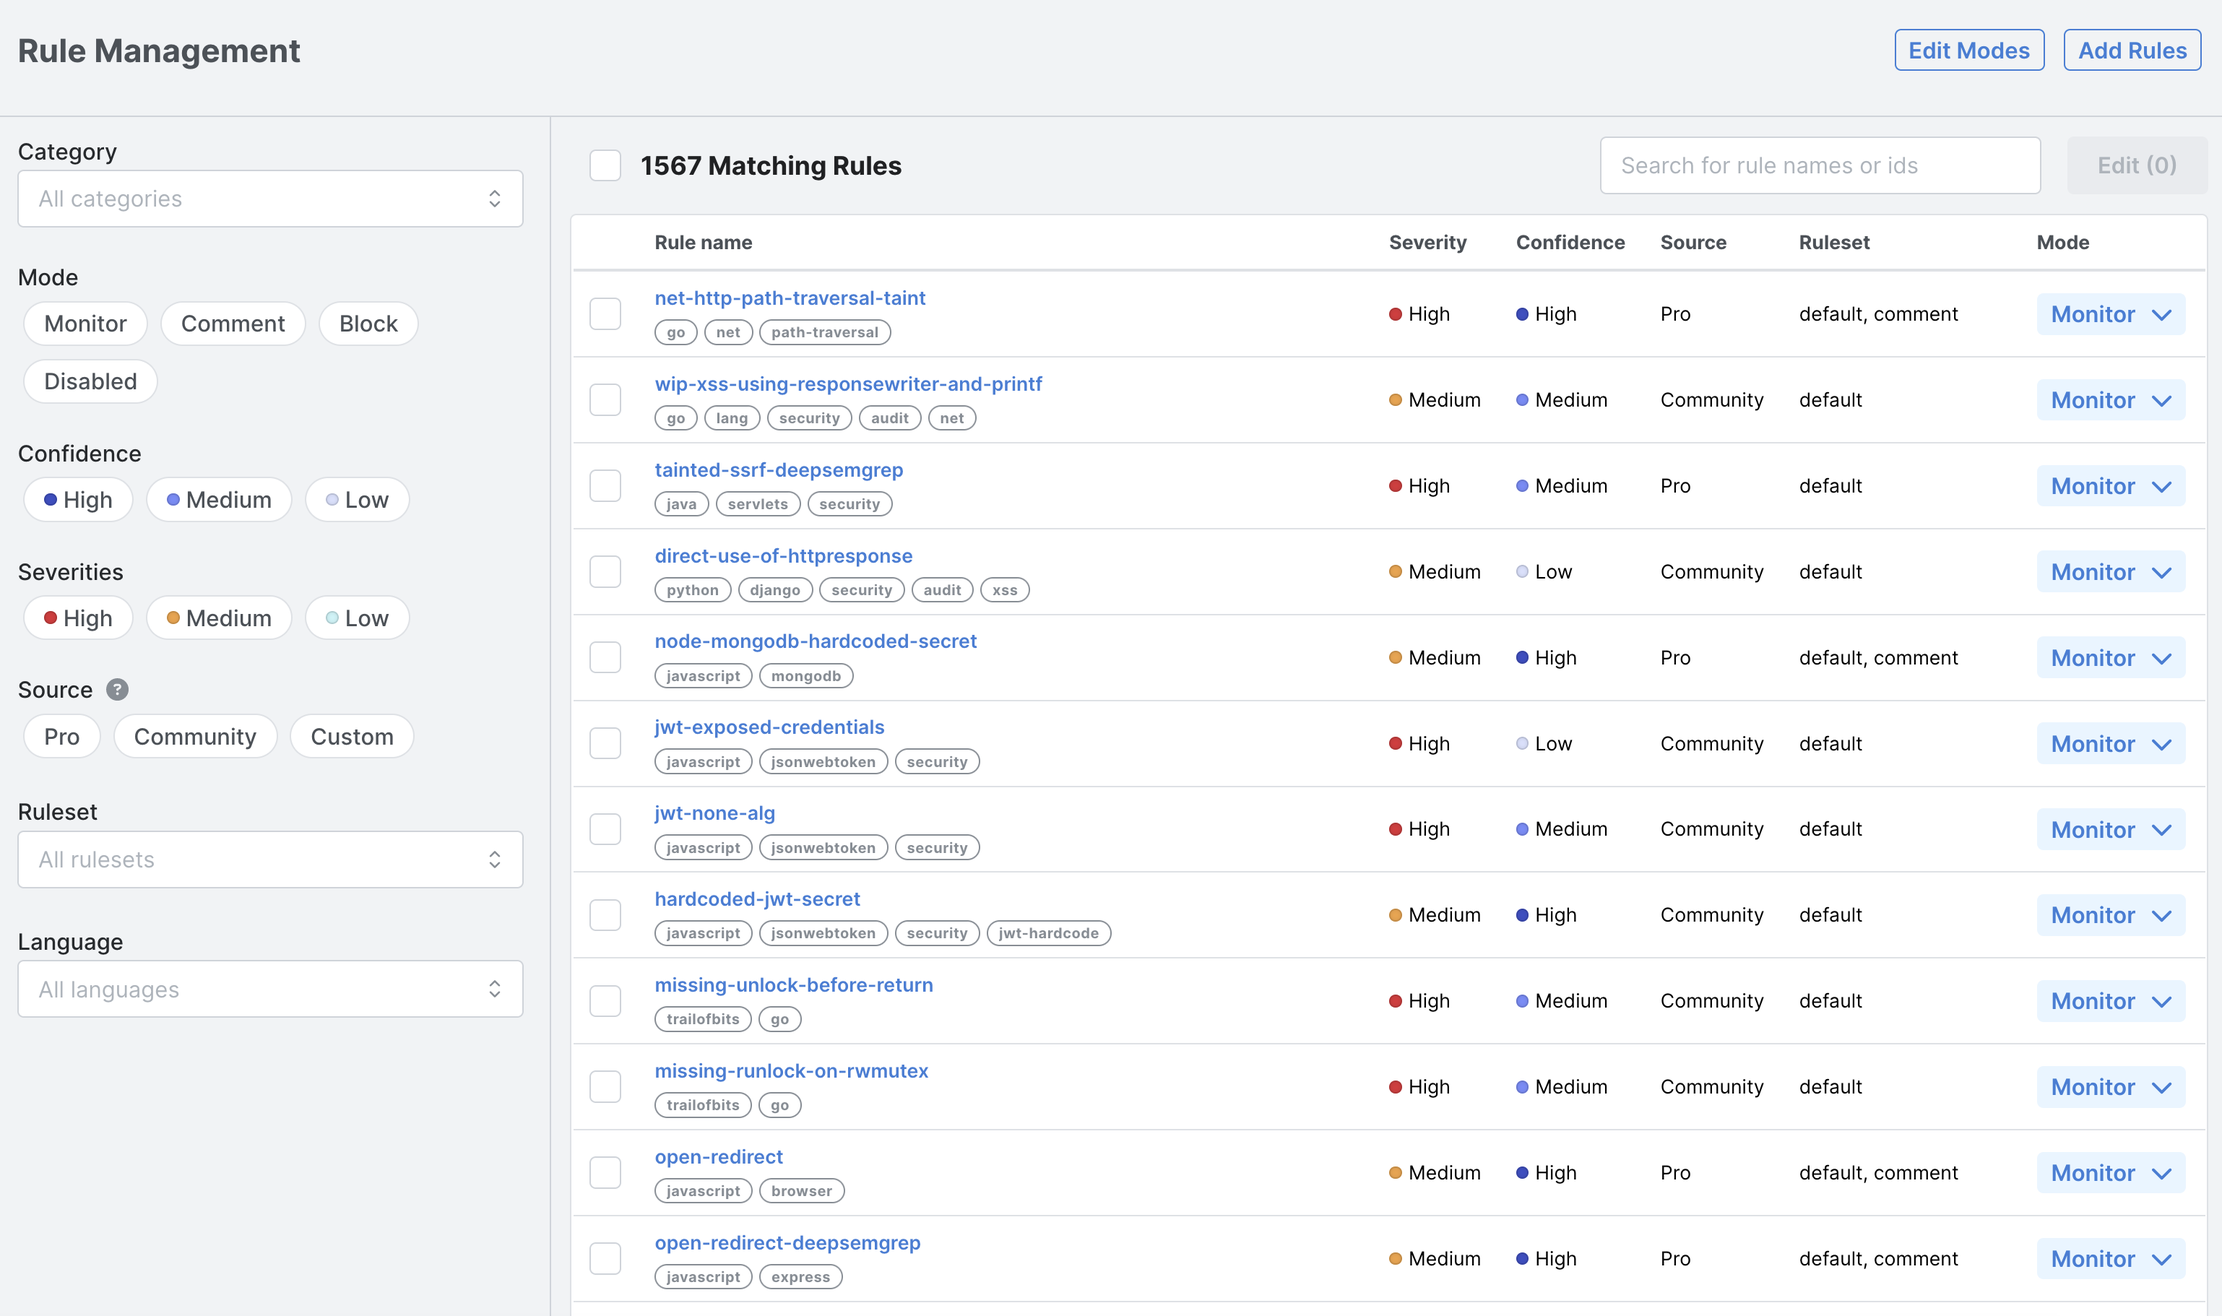
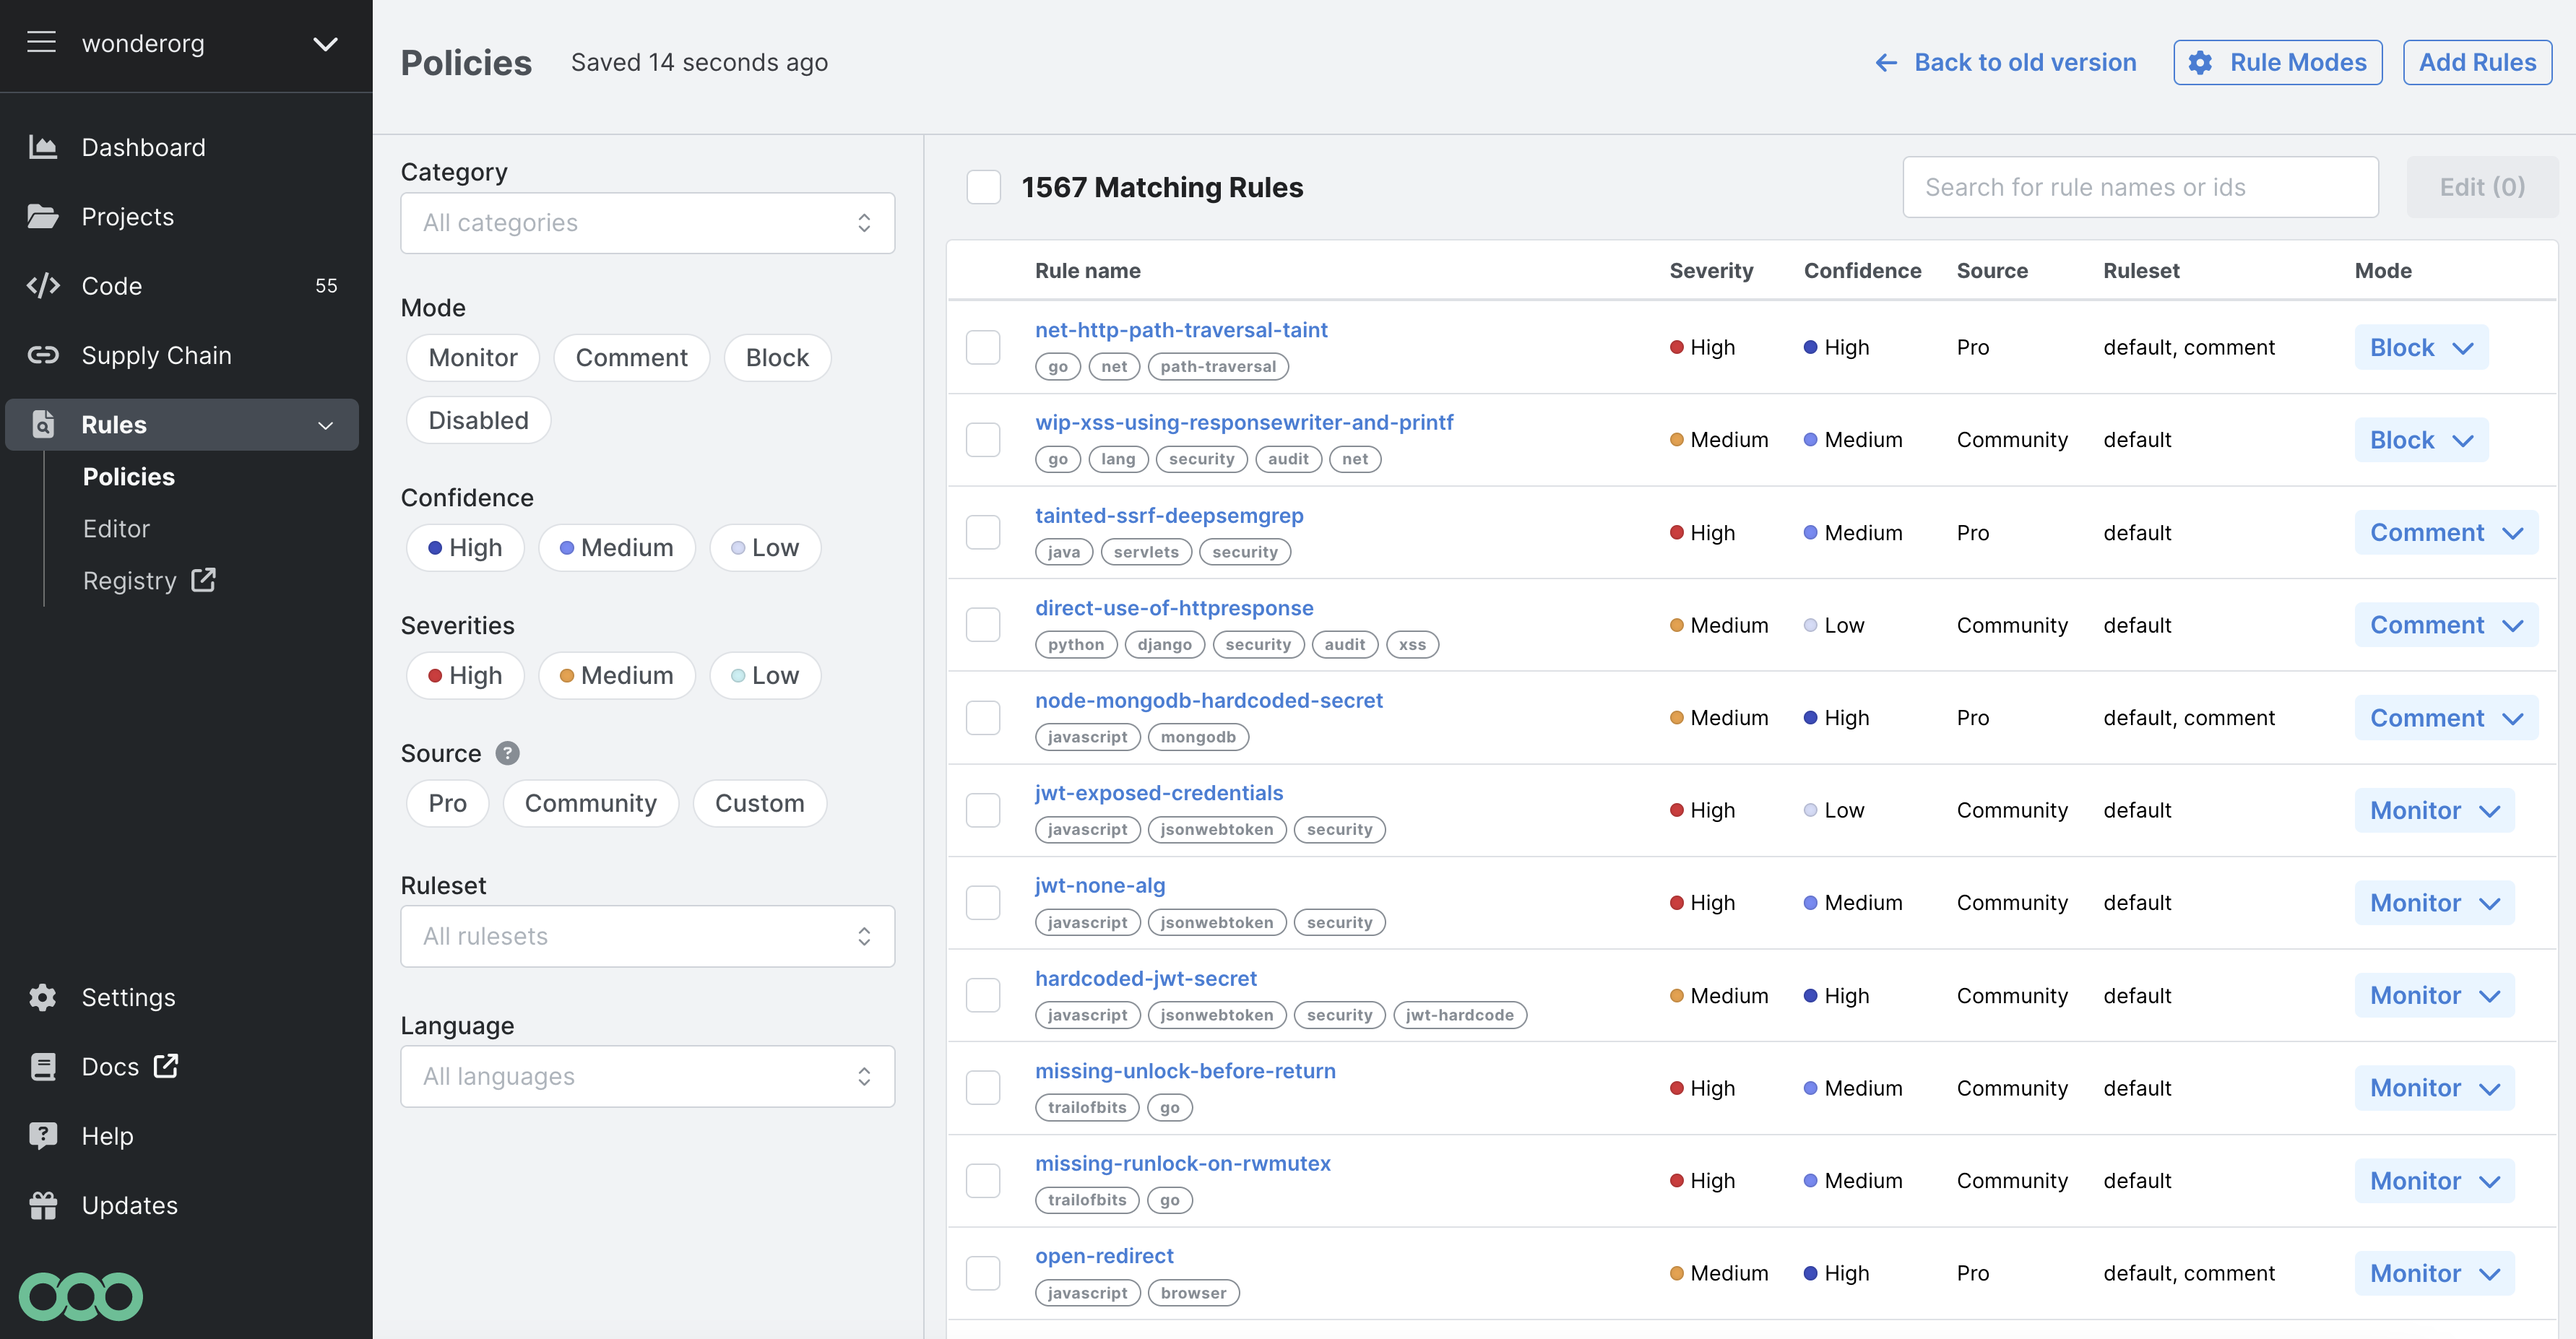
Add May-June 9 release notes (#1059)
* Add May-June 9th release notes

* screenshot for ssc license

* Update screenshot, update admonition

* Added 1.26.0 version updates

* Fix screenshots, fix headers

* Minor edit

* Update docs/release-notes/may-2023.md

* Edit admonition header

* Minor edit

* Add docs changes

* Minor edit

* Fix typos

* Fix typos

* Fix typos

* Implement suggestion from code review

* Update docs/release-notes/may-2023.md

* Fix typos

* Fix wrong links, fix typo

---------

diff --git a/sidebars.js b/sidebars.js
@@ -359,8 +359,9 @@ module.exports = {
               type: 'category',
               label: '2023',
               collapsible: true,
-              link: {type: 'doc', id: 'release-notes/april-2023'},
+              link: {type: 'doc', id: 'release-notes/may-2023'},
               items: [
+                'release-notes/may-2023',
                 'release-notes/april-2023',
                 'release-notes/march-2023',
                 'release-notes/february-2023',

diff --git a/docs/release-notes/may-2023.md b/docs/release-notes/may-2023.md
@@ -1,0 +1,180 @@
+---
+slug: may-2023
+append_help_link: true
+hide_title: true
+description: >-
+  Release notes include the changes, fixes, and additions in specific versions of Semgrep.
+toc_max_heading_level: 3
+---
+
+# May 2023
+
+:::info Release notes from May until June 9
+These release notes include updates made by Semgrep, Inc. from May 2023 until June 9. Due to the importance of the launch week at the beginning of June 2023, we decided to include the most important updates from the launch also on the release notes page that you are now reading.
+:::
+
+## Semgrep tiers
+
+- Semgrep’s Community Tier has been sunsetted. Existing and new users now have access to **all** Semgrep Team tier features for free, subject to [Usage limits](/usage-limits/).
+
+## Semgrep Cloud Platform
+
+- Semgrep Playground **Turbo mode** is now in beta. This new mode enables users to create rules using the Semgrep OSS engine which will automatically run upon detecting any change in the rule or sample code. There is **no need to click a Run button** in Turbo mode.
+- Semgrep Zero-config Scanning for GitHub.com is now in beta. Onboard or add many repositories to the Semgrep Cloud Platform without having to commit a CI file for every repository! Reach out to [sales@semgrep.com](mailto:sales@semgrep.com) to try it out.
+- Role-based access control (RBAC) is now available to all Team tier users, subject to usage limits.
+- Single Sign-On (SSO) is now available to all Team tier users, subject to usage limits.
+- Improved the UI on the **Settings** page.
+
+## Semgrep OSS Engine
+
+This section of release notes includes upgrades of Semgrep OSS Engine for versions ranging between 1.21.0 and 1.26.0.
+
+- Kotlin language support update: Kotlin now upgraded from beta support to full GA support! Additionally, as a part of this update for Kotlin:
+    - Added named ellipses, as `$...X`.
+    - Added literal metavariables, from patterns like `"$FOO"`. You can still match strings that only contain a single interpolated ident by using the brace notation, e.g. `"${FOO}"`.
+    - Interpolated identifiers in strings, such as `$foo`, are now properly able to match explicitly interpolated expressions, such as `${...}`.
+- Added experimental support for the programming language Cairo 1.0. Thanks to [Frostweeds](https://github.com/Frostweeds) (Romain Jufer) for his contribution!
+- Added experimental support for the programming language Julia.
+- Java support improvement: Semgrep OSS Engine now includes heuristics based on the Java standard library and common naming patterns. As a result, Semgrep OSS Engine can now determine more types of Java expressions, for use with [Typed Metavariables](/writing-rules/pattern-syntax/#typed-metavariables).
+- We are introducing a new experimental generic matching engine [Aliengrep](/writing-rules/experiments/aliengrep/) as an alternative to the default generic mode engine (Spacegrep). Generic mode is used for languages that are not supported by Semgrep OSS Engine. Try out [Aliengrep](/writing-rules/experiments/aliengrep/) and let us know what you think about it!
+- Taint analysis updates:
+  - In Java, Semgrep OSS Engine can now track taint through more get and set methods (getters and setters). Before this update, taint analysis of Semgrep OSS Engine could already relate setters to getters (for example: `o.setX(taint); o.getX()`. With this update, it can relate setters and getters to properties (for example `o.setX(taint); o.x`).
+  - Added experimental options `taint_assume_safe_booleans` and `taint_assume_safe_numbers` to avoid propagating taint that comes from expressions with boolean or number (integer, float) types.
+  - Semgrep OSS Engine can recognize that an object constructed by `new Obj("tainted", "safe")` has its `x` attribute tainted, whereas its `y` attribute is safe.
+  - Extract mode: users can now choose to include or exclude rules to run on, similar to `paths:`.
+      
+      For example, to only run the rules on `example-1` and `example-2`:
+      
+      ```yaml
+      rules:
+        - id: test-rule
+          mode: extract
+          rules:
+              include:
+              - example-1
+              - example-2
+      
+      ```
+      
+      To run the rule on everything except `example-1` and `example-2`:
+      
+      ```yaml
+      rules:
+        - id: test-rule
+          mode: extract
+          rules:
+              exclude:
+              - example-1
+              - example-2
+      
+      ```
+      
+      (GitHub issue [#7858](https://github.com/returntocorp/semgrep/issues/7858))
+
+- Semgrep OSS Engine Language Server updates. The following two updates are also related to [Semgrep Visual Studio Code extension](#semgrep-visual-studio-code):
+    - Support for search and replace with rule patterns through semgrep/search.
+    - Language Server now notifies you about errors and includes a reason for the crash.
+
+- Relaxed restrictions on symbolic propagation so that symbolic values survive branching statements. Now (with symbolic-propagation enabled) `foo(bar())`  matches the following code:
+    
+    ```python
+    def test():
+      x = bar()
+      if cond:
+        exit()
+      foo(x)
+    ```
+
+The Semgrep OSS Engine section of release notes mentions only selected additions and changes, for specific bug fixes, see [Semgrep OSS Engine GitHub](https://github.com/returntocorp/semgrep/blob/develop/CHANGELOG.md) changelog and search for Fixed sections under each version.
+
+## Semgrep Supply Chain
+
+- Semgrep Supply Chain’s **License compliance** feature is now in beta. This feature enables developers to view the licenses of dependencies in all repositories that are scanned by Semgrep Supply Chain. Read the documentation: [License compliance](/semgrep-supply-chain/license-compliance).
+    - This feature also enables security engineers to **Block,** leave a **Comment,** or **Allow** dependencies when a PR introducing the dependency is first opened, based on the license of the dependency.
+    - License compliance supports many popular Copyleft, Weak-copyleft, and Permissive licenses. Other licenses can also be detected.
+    ![Screenshot of Semgrep Supply Chain Dependencies tab with licenses listed](/img/sc-license-scanning.png)
+- Semgrep Supply Chain is now available for free to Team tier users, subject to usage limits.
+- Improvements to Semgrep Supply Chain **Dependencies** page.
+
+## Semgrep Visual Studio Code
+
+Semgrep Visual Studio Code extension received new updates! Try to scan your code using the extension and let us know what we can improve. See more in [Semgrep Visual Studio Code extension](/extensions/semgrep-vs-code/) documentation. This extension allows you to check your code for vulnerabilities within seconds, with every line of code changed in the editor. The extension is built on Language Server Protocol, so you can hack it for other editors of your choice. The extension also has a dedicated [changelog on GitHub](https://github.com/returntocorp/semgrep-vscode/blob/master/CHANGELOG.md) so you can always see the latest updates.
+
+## Semgrep Code
+
+- There is a new Policies page that is going to replace the Rule board in Semgrep Code! Switch to the new version by clicking **Try new version** in the Rule board header. The new page gives the rule overview a noticeable facelift and many optimizations, you can now easily filter for various types of rule metadata, and specific types of rules and make bulk edits which would have been hardly achievable with the old Rule board. Read more in [Policies](/semgrep-code/policies/) documentation.
+
+    ![Screenshot of the default state of the Policies page](/img/policies.png)
+    
+- You can now rename Projects in the Semgrep Cloud Platform. Before this update, when you renamed a repository in your Source Code Manager (SCM), for example in GitHub, GitLab, or Bitbucket, all of your previous Semgrep findings and triage data were lost as Semgrep recognized the renamed repository only as a new repository. With this update, you can now manually rename the project in Semgrep Code. This is the first step before we will bring you an automated solution (as this update still requires manual action). But now you can rename a project in Semgrep Code to match the new repository name without losing your findings data!
+  To rename a repository:
+  1. On the [Projects](https://semgrep.dev/orgs/-/projects) page of Semgrep Cloud Platform, click the gear icon <i class="fa-solid fa-gear"></i> **Settings**. of the repository where you want to change the repository name.
+  ![Screenshot of the settings icon on Projects page](/img/release-notes-rename-project1.png)
+  2. Click the three dots …, and then click Rename project.
+  ![Screenshot of the three dots options menu on Projects page](/img/release-notes-rename-project2.png)
+  3. Create a name that matches the name in your SCM, and then click **Rename**.
+
+## Pro rules
+
+Recently released rules bring a total of:
+
+- 61 Pro rules for **Kotlin** (with support frameworks like Spring and Ktor)
+- 69 Pro rules for **Go** (with support frameworks such as Gin, Gorilla, gRPC, net/HTTP, and more)
+
+These rules are available through the [Semgrep Registry](https://semgrep.dev/explore), in rulesets such as `p/default` and `p/comment`, as well as language-specific rulesets such as `p/kotlin` and `p/golang`. In total, there are now more than 500 Pro rules available.
+
+## Semgrep Pro Engine
+
+- Semgrep Pro Engine now provides cross-function support for Go and Kotlin!
+- Semgrep Pro Engine allows you to visualize the flow of tainted data (dataflow traces) in Semgrep Code. With this update, you can also receive findings with the visualized flow of tainted data in a pull request (PR) or merge request (MR) Semgrep comments. For more information, see the following documentation:
+    - [Dataflow traces in PR comments](/semgrep-cloud-platform/github-pr-comments/#dataflow-traces-in-pr-comments)
+    - [Dataflow traces in MR comments](/semgrep-cloud-platform/gitlab-mr-comments/#dataflow-traces-in-mr-comments)
+- Taint analysis:
+    - Taint labels now mostly work interprocedurally (cross-function analysis), except for labeled propagators.
+    Note that taint labels are experimental!
+    - Taint analysis now supports interprocedural field sensitivity for JavaScript and TypeScript.
+        
+        For example:
+        
+        ```javascript
+        class Obj {
+          constructor(x, y) {
+            this.x = x;
+            this.y = y;
+          }
+        }
+        ```
+        
+    - Semgrep Pro Engine taint analysis can now perform field-sensitive analysis of class constructors in Java. For example, if the default constructor of a class `C` sets its field `x` to a tainted value, given `o = new C()`, Semgrep knows that `o.getX()` is tainted.
+
+## Documentation updates
+
+### Additions
+
+- Added a new [Usage limits](/usage-limits/) FAQ page.
+- Added a new document about [License compliance](/semgrep-supply-chain/license-compliance).
+- Added a new document [Searching through your dependencies](/semgrep-supply-chain/dependency-search/) in Semgrep Supply Chain documentation.
+- Added a new section [Updating Semgrep Pro Engine in CLI](/semgrep-code/semgrep-pro-engine-intro/#updating-semgrep-pro-engine-in-cli).
+- There is a new section [Limitations of symbolic propagation](https://semgrep.dev/docs/writing-rules/experiments/symbolic-propagation/#limitations-of-symbolic-propagation).
+- Added dataflow traces in PRs and MRs documentation.
+    - [Dataflow traces in PR comments](/semgrep-cloud-platform/github-pr-comments/#dataflow-traces-in-pr-comments)
+    - [Dataflow traces in MR comments](/semgrep-cloud-platform/gitlab-mr-comments/#dataflow-traces-in-mr-comments)
+- Add executing commands as strings and many more updates to the [Command injection prevention for Ruby](/cheat-sheets/ruby-command-injection/).
+- Added [Semgrep Pro Engine CI scans](/semgrep-code/semgrep-pro-engine-intro/#semgrep-pro-engine-ci-scans) section.
+- Added new [Policies](/semgrep-code/policies/) page documentation, also updated [Rule board](/semgrep-code/rule-board/) documentation with an admonition about Policies page.
+- Added [Semgrep Visual Studio Code extension](https://semgrep.dev/docs/extensions/semgrep-vs-code/) documentation.
+- Added [Aliengrep](/writing-rules/experiments/aliengrep/) reference documentation.
+
+### Changes
+
+- Updated [Join mode](/writing-rules/experiments/join-mode/overview/) documentation.
+- Admonitions regarding the new Turbo mode were added to Playground and Editor documentation. Go to [Playground](/playground/) documentation and search for turbo mode.
+- Updated [Single-sign on (SSO) configuration](https://semgrep.dev/docs/semgrep-cloud-platform/sso/).
+- Updated [Evaluating your security posture through the Dashboard](https://semgrep.dev/docs/semgrep-cloud-platform/dashboard/) document.
+- Our Rule syntax document now shows that focus metavariables can be a list of more focus metavariables. See the rule example in [Including multiple focus metavariables using set intersection semantics](/writing-rules/rule-syntax/#including-multiple-focus-metavariables-using-set-intersection-semantics) section.
+- The [General rule requirements](/contributing/contributing-to-semgrep-rules-repository/#general-rule-requirements) section of Contributing rules document now includes a more precise definition of the `severity` YAML rules key.
+- Our docs search now includes heading information to better contextualize search results and other fixes to optimize the documentation search.
+- Code samples in [Sample continuous integration (CI) configurations](/semgrep-ci/sample-ci-configs/) document now includes workflow dispatch and other additional updates to various code snippets on this page.
+- Updated source paths in [Contributing code](https://semgrep.dev/docs/contributing/contributing-code/) documentation.
+- Removed `pattern-where-python` documentation as it was deprecated in Semgrep OSS Engine version 0.61.0.
+- There were also numerous typos fixed, many other docs pages improved, and some screenshots updated. All this is to improve your experience with our docs. Also big thanks to [Parsia Hakimian](https://github.com/parsiya) for helping us to fix some of these typos!
